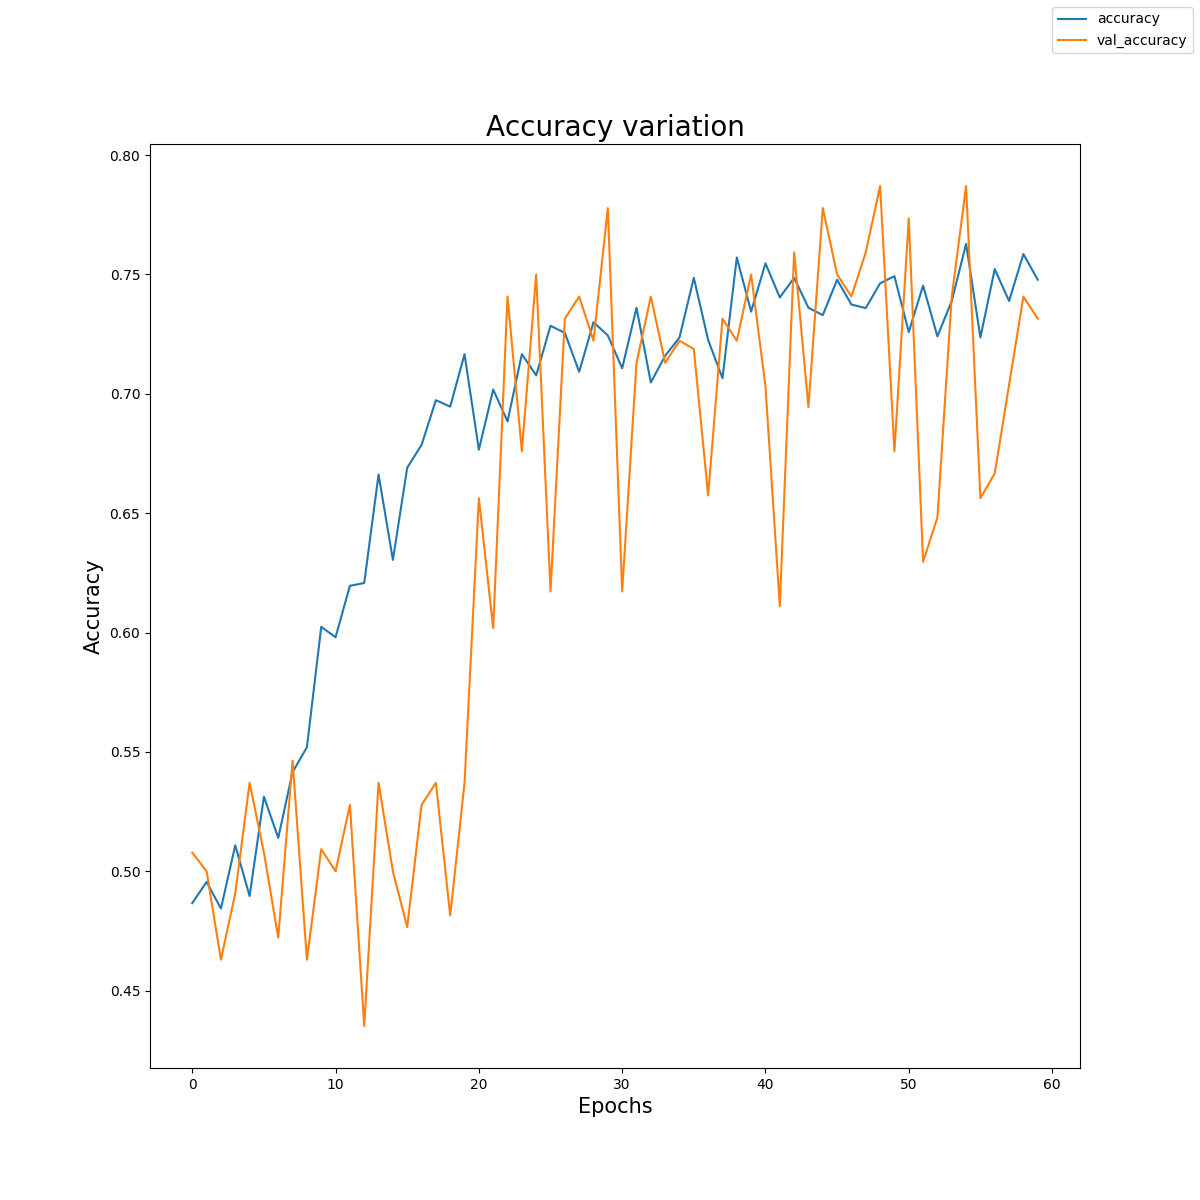
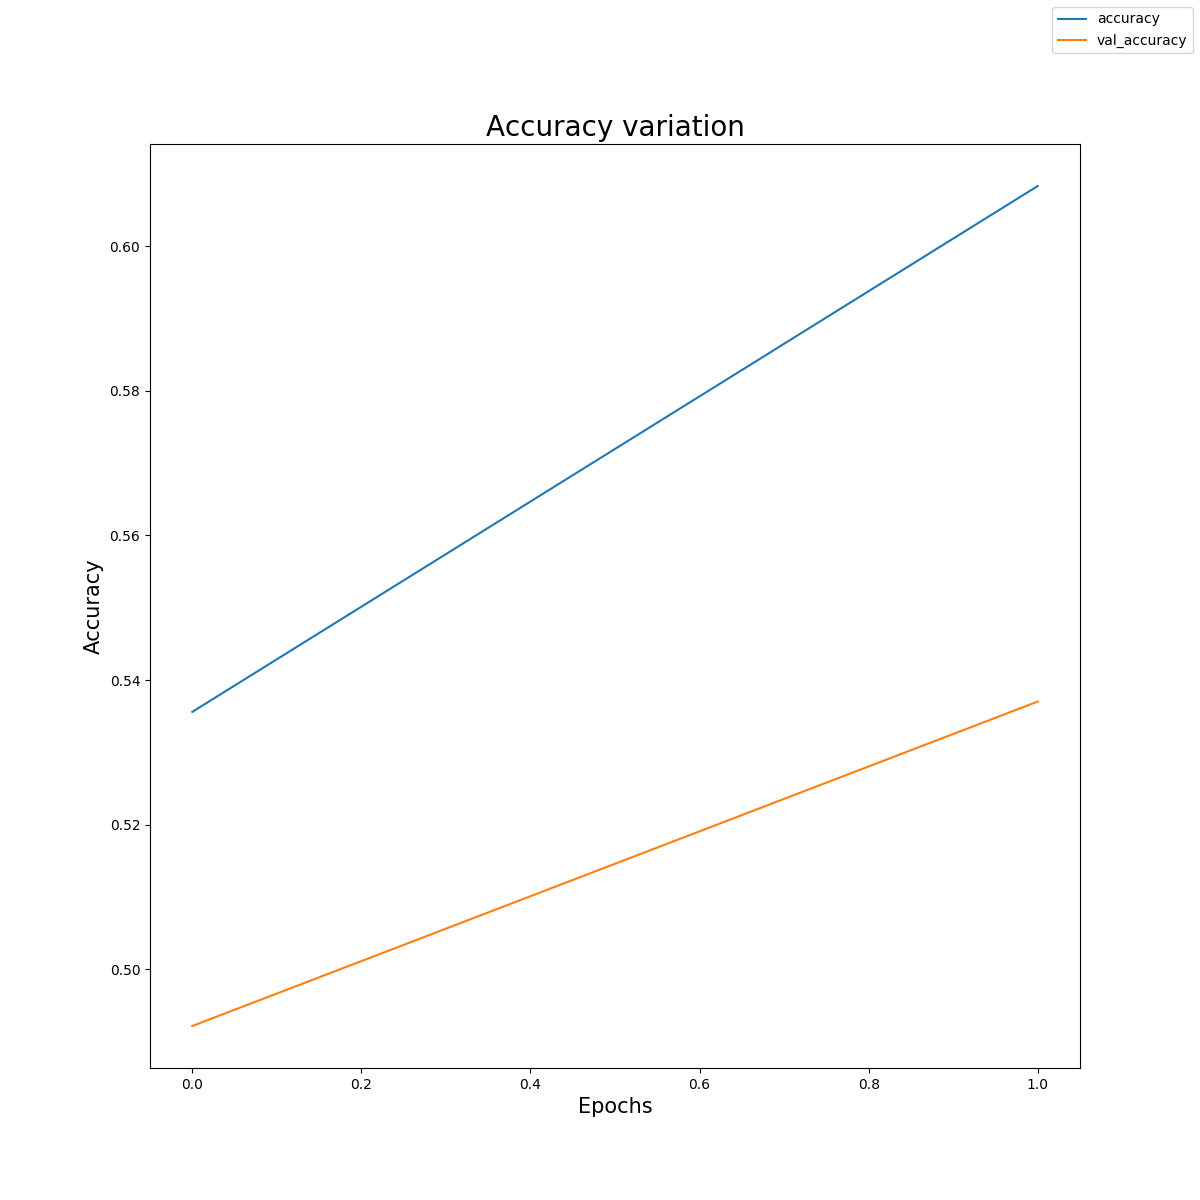
minor refactor into train_model.py

diff --git a/Interpreter.py b/Interpreter.py
@@ -63,7 +63,7 @@ class Interpreter:
             directory=imagepath,
             batch_size=self.batch_size,
             target_size=(225, 225),
-            class_mode='binary',
+            class_mode='binary'
 #             color_mode='grayscale'
         )
 
@@ -233,7 +233,6 @@ class Interpreter:
     def train_model(
         self,
         train_images,
-        test_images,
         validation_images,
         optimizer_test,
         num_mid_kernel
@@ -288,9 +287,6 @@ class Interpreter:
         model.add(MaxPooling2D(pool_size=(2, 2)))
 
         model.add(BatchNormalization())
-        # model.add(Conv2D(num_mid_kernel * 10, (5, 5)))
-        # model.add(Activation('relu'))
-
         model.add(Flatten())
         model.add(Dense(
             64,
@@ -301,7 +297,6 @@ class Interpreter:
         model.add(Activation('relu'))
         model.add(Dropout(0.2))
         model.add(Dense(1))
-        # TODO: EVALUATES IF relu RETURN BETTER RESULTS (I BELIEVE YES...)
         model.add(Activation('sigmoid'))
 
         model.compile(
@@ -314,70 +309,13 @@ class Interpreter:
 
         model_out = model.fit_generator(
             train_images,
-            # steps_per_epoch=2000 // self.batch_size,
             steps_per_epoch=len(train_images.classes) // self.batch_size,
             epochs=self.epochs,
             validation_data=validation_images,
-            # validation_steps=800 // self.batch_size
             validation_steps=len(validation_images.classes) // self.batch_size
         )
 
-        print('----------------')
-        score = model.evaluate_generator(
-            validation_images,
-            len(validation_images.classes) // self.batch_size
-        )
-        print(score)
-
-        scores = model.predict_generator(
-            test_images,
-            len(validation_images.classes) // self.batch_size
-        )
-        print(scores)
-        print('----------------')
-
-        # Serialize model to json.
-        model_json = model.to_json()
-        with open("model_simple.json", "w") as json_file:
-            json_file.write(model_json)
-
-        # Serialize model to hdf5.
-        model.save_weights('model_simple.h5')
-        print('Saved model')
-
-        graphs = Graphs()
-        graphs.show_train_validation(
-            self.epochs,
-            model_out
-        )
-
-        # Test:
-        # pred = model.predict(
-        #     # test_images
-        #     train_images
-        # )
-        pred = model.predict_generator(
-            test_images
-            # len(test_images.classes) // self.batch_size
-        )
-        pred[pred <= 0.5] = 0
-        pred[pred > 0.5] = 1
-
-        print(accuracy_score(
-            test_images.classes,
-            # train_images.classes,
-            pred
-        ))
-
-        graphs = Graphs()
-        graphs.show_confusion_matrix(
-            test_images.classes,
-            # train_images.classes,
-            pred,
-            np.array(['glaucoma', 'healthy'])
-        )
-
-        return model_out
+        return model, model_out
 
     def train_efficient_net(
         self,
@@ -495,6 +433,70 @@ class Interpreter:
         )
 
         return model_out
+
+    def model_evaluation_test(
+        self,
+        test_images,
+        validation_images,        
+        model,
+        model_out
+    ):
+        """
+        Get score from test data from trained model.
+
+        Args:
+        ---------
+            model: 
+            model_out: 
+
+        Return:
+        ---------
+            loss and accuracy graph; model
+        """
+        # Get score from test images after train.
+        scores = model.predict_generator(
+            test_images,
+            len(validation_images.classes) // self.batch_size
+        )
+
+        graphs = Graphs()
+        graphs.show_train_validation(
+            self.epochs,
+            model_out
+        )
+
+        pred = model.predict_generator(
+            test_images
+        )
+        pred[pred <= 0.5] = 0
+        pred[pred > 0.5] = 1
+
+        print('Accuracy: \n')
+        print(accuracy_score(
+            test_images.classes,
+            pred
+        ))
+
+        graphs = Graphs()
+        graphs.show_confusion_matrix(
+            test_images.classes,
+            pred,
+            np.array(['glaucoma', 'healthy'])
+        )
+
+        if (accuracy_score(
+            test_images.classes,
+            pred
+        ) > 0.6):
+
+            # Serialize model to json.
+            model_json = model.to_json()
+            with open("model_simple.json", "w") as json_file:
+                json_file.write(model_json)
+
+            # Serialize model to hdf5.
+            model.save_weights('model_simple.h5')
+            print('Saved model')
 
     def __create_eff_model(self):
         """

diff --git a/train_start.py b/train_start.py
@@ -5,15 +5,13 @@ if __name__ == "__main__":
     """
     Get raw data and apply CNN model.
     """
-    TARGET_SIZE = (128, 128)
+    TARGET_SIZE = (256, 256)
     BATCH_SIZE = 32
-    EPOCHS = 100
-    IMAGE_SHAPE = (128, 128, 1)
-    IMAGE_SHAPE_EFFI = (128, 128, 3)
+    EPOCHS = 2
+    IMAGE_SHAPE = (256, 256, 3)
     inter = Interpreter(
         BATCH_SIZE,
-        # IMAGE_SHAPE,
-        IMAGE_SHAPE_EFFI,
+        IMAGE_SHAPE,
         EPOCHS,
         TARGET_SIZE
     )
@@ -21,12 +19,19 @@ if __name__ == "__main__":
     train_images, validation_images, test_images = inter.split_data()
 
     # Traditional method.
-    inter.train_model(
+    model, model_out = inter.train_model(
         train_images,
-        test_images,
         validation_images,
         'SGD',
-        2048
+        256
+    )
+
+    # Get score of test data from trained model.
+    inter.model_evaluation_test(
+        test_images,
+        validation_images,
+        model,
+        model_out
     )
 
     # inter = Interpreter(
